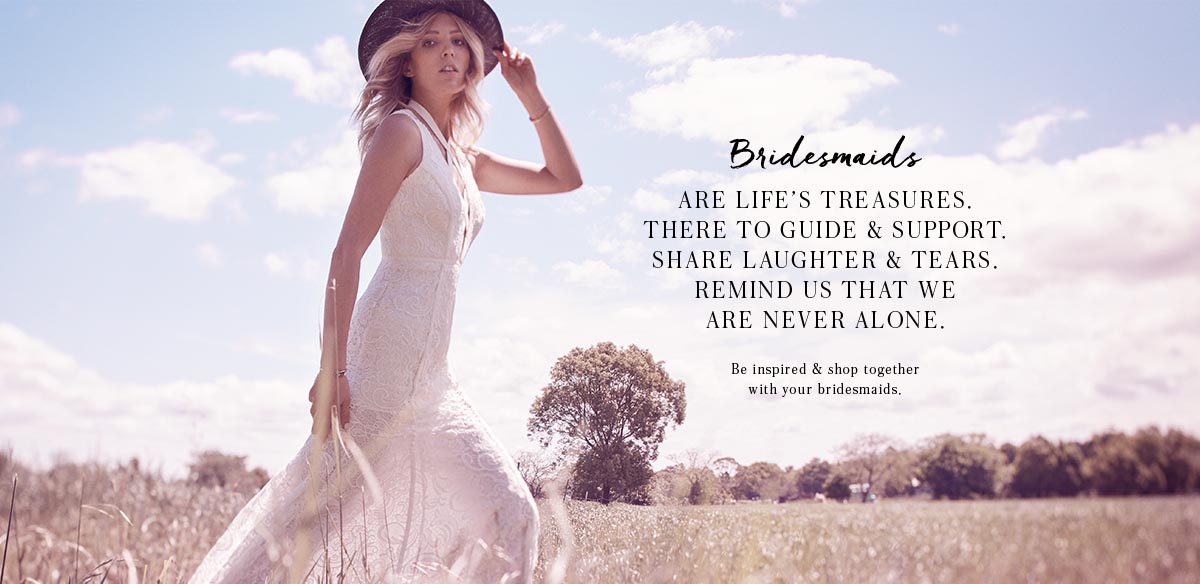
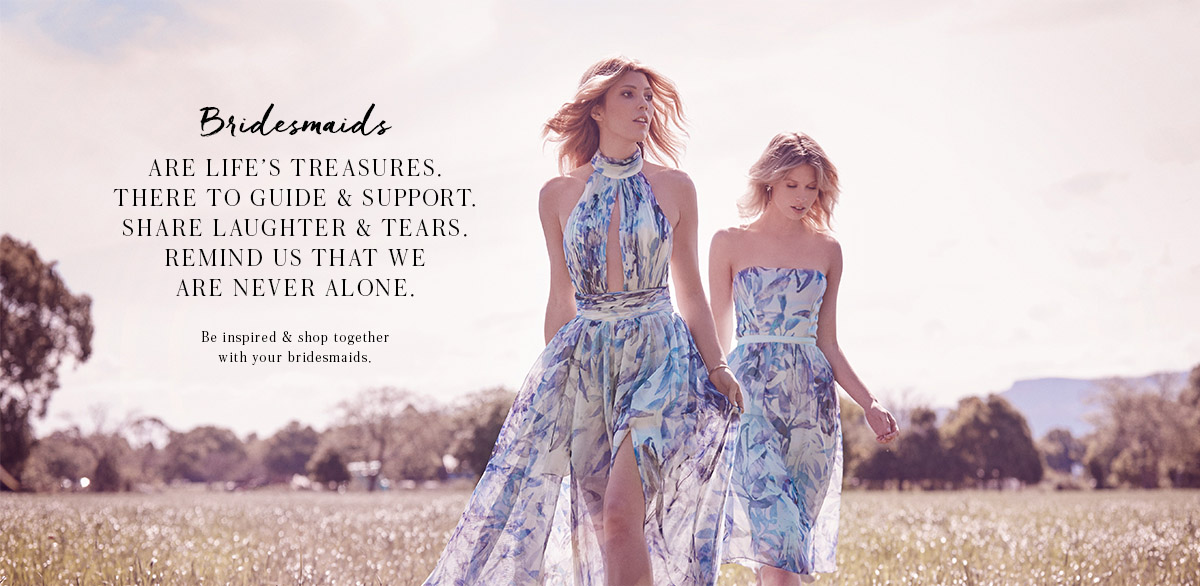
updated hero section, updated hero images

diff --git a/app/assets/stylesheets/redesign/pages/_landing-famingtonway.scss b/app/assets/stylesheets/redesign/pages/_landing-famingtonway.scss
@@ -155,6 +155,7 @@
 
     .heading {
       margin: 0 0 40px 0;
+      text-transform: none;
       font-family: $font-heading;
       font-size: 3.125em;
 
@@ -235,15 +236,8 @@
         }
 
         .btn-wrap {
-          position: absolute;
-          bottom: -23px;
-          left: 0;
-          right: 0;
-
-          &:before {
-            display: none;
-          }
-
+          display: none;
+          visibility: hidden;
         }
 
         ul {
